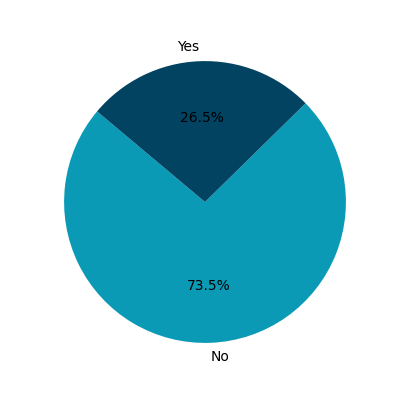
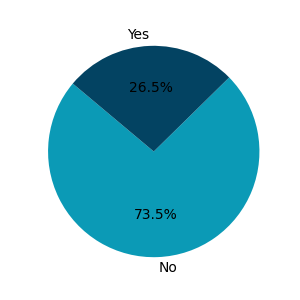
Updates.

diff --git a/templates/sociodem.html b/templates/sociodem.html
@@ -5,7 +5,7 @@
         <h1>Sociodemographics</h1>
 
         <h2>Age Group</h2>
-        <p>Is customer above the age of 65</p>
+        <p>Is the customer above the age of 65</p>
 
         <div class="container">
             <div>
@@ -21,19 +21,20 @@
                          alt="Bar of Age Group" class="graph">
                 </div>
             </div>
-            <div><p>Average monthly charges by churn and age group</p>
-                <div>
-                    {% for key, value in by_age_group.items() %}
+        </div>
+        <div>
+            <p>Average monthly charges by churn and age group</p>
+            <div>
+                {% for key, value in by_age_group.items() %}
 
-                        <p>{{ key }} : {{ value }}</p>
+                    <p>{{ key }} : {{ value }}</p>
 
-                    {% endfor %}
-                </div>
+                {% endfor %}
             </div>
         </div>
-
+        <br>
         <h2>Partnership</h2>
-        <p>Does customer has or hasn't partner</p>
+        <p>Whether the client has or does not have a partner</p>
 
         <div class="container">
             <div>
@@ -50,9 +51,19 @@
                 </div>
             </div>
         </div>
+        <div>
+            <p>Average monthly charges by churn and partnership</p>
+            <div>
+                {% for key, value in by_partner.items() %}
 
+                    <p>{{ key }} : {{ value }}</p>
+
+                {% endfor %}
+            </div>
+        </div>
+        <br>
         <h2>Dependents</h2>
-        <p>Does customer has or hasn't dependents</p>
+        <p>Whether the client has or does not have dependents</p>
 
         <div class="container">
             <div>
@@ -67,6 +78,17 @@
                     <img src="{{ url_for('static', filename='graphs/dependents_bar.png') }}"
                          alt="Bar of Dependents" class="graph">
                 </div>
+            </div>
+
+        </div>
+        <div>
+            <p>Average monthly charges by churn and dependents</p>
+            <div>
+                {% for key, value in by_dependents.items() %}
+
+                    <p>{{ key }} : {{ value }}</p>
+
+                {% endfor %}
             </div>
         </div>
 

diff --git a/templates/services.html b/templates/services.html
@@ -5,7 +5,7 @@
         <h1>Services</h1>
 
         <h2>Phone Service</h2>
-        <p>Does customer has phone service</p>
+        <p>Does the customer have phone service</p>
 
         <div class="container">
             <div>
@@ -21,10 +21,22 @@
                          alt="Bar of Phone" class="graph">
                 </div>
             </div>
+
         </div>
 
-            <h2>Internet Service</h2>
-        <p>Does customer has internet service</p>
+        <div>
+            <p>Average monthly charges by churn and phone service</p>
+            <div>
+                {% for key, value in by_phone.items() %}
+
+                    <p>{{ key }} : {{ value }}</p>
+
+                {% endfor %}
+            </div>
+        </div>
+        <br>
+        <h2>Internet Service</h2>
+        <p>Does the customer have internet service</p>
 
         <div class="container">
             <div>
@@ -40,10 +52,22 @@
                          alt="Bar of Internet" class="graph">
                 </div>
             </div>
+
         </div>
 
-                <h2>Streaming TV Service</h2>
-        <p>Does customer has streaming TV service</p>
+        <div>
+            <p>Average monthly charges by churn and internet service</p>
+            <div>
+                {% for key, value in by_internet.items() %}
+
+                    <p>{{ key }} : {{ value }}</p>
+
+                {% endfor %}
+            </div>
+        </div>
+        <br>
+        <h2>Streaming TV Service</h2>
+        <p>Does the customer have streaming TV service</p>
 
         <div class="container">
             <div>
@@ -58,6 +82,17 @@
                     <img src="{{ url_for('static', filename='graphs/streaming_tv_bar.png') }}"
                          alt="Bar of Streaming TV" class="graph">
                 </div>
+            </div>
+        </div>
+
+        <div>
+            <p>Average monthly charges by churn and streaming TV service</p>
+            <div>
+                {% for key, value in by_streaming_tv.items() %}
+
+                    <p>{{ key }} : {{ value }}</p>
+
+                {% endfor %}
             </div>
         </div>
 

diff --git a/static/style.css b/static/style.css
@@ -48,7 +48,7 @@ h1 {
 
 .container {
     display: grid;
-    grid-template-columns: 210px auto;
+    grid-template-columns: 250px auto;
     grid-column-gap: 40px;
     padding: 10px;
 }

diff --git a/functions.py b/functions.py
@@ -138,6 +138,19 @@ def age_group():
     return data['Senior_Citizen'].value_counts()
 
 
+def churn_by_age_group_monthly_mean():
+    mean = data.groupby(['Churn', 'Senior_Citizen'])['Monthly_Charges'].mean()
+
+    by_mean = {
+        'Active & Age < 65': round(list(mean)[0], 2),
+        'Active & Age > 65': round(list(mean)[1], 2),
+        'Terminated & Age < 65': round(list(mean)[2], 2),
+        'Terminated & Age > 65': round(list(mean)[3], 2)
+    }
+
+    return by_mean
+
+
 def partner_statistics():
     partner_no = data['Partner'].value_counts()['No']
     partner_yes = data['Partner'].value_counts()['Yes']
@@ -158,6 +171,19 @@ def partner_statistics():
 
 def partner():
     return data['Partner'].value_counts()
+
+
+def churn_by_partner_monthly_mean():
+    mean = data.groupby(['Churn', 'Partner'])['Monthly_Charges'].mean()
+
+    by_mean = {
+        'Active & Has no partner': round(list(mean)[0], 2),
+        'Active & Has partner': round(list(mean)[1], 2),
+        'Terminated & Has no partner': round(list(mean)[2], 2),
+        'Terminated & Has partner': round(list(mean)[3], 2)
+    }
+
+    return by_mean
 
 
 def dependents_statistics():
@@ -182,14 +208,14 @@ def dependents():
     return data['Dependents'].value_counts()
 
 
-def churn_by_age_group_monthly_mean():
-    mean = data.groupby(['Churn', 'Senior_Citizen'])['Monthly_Charges'].mean()
+def churn_by_dependents_monthly_mean():
+    mean = data.groupby(['Churn', 'Dependents'])['Monthly_Charges'].mean()
 
     by_mean = {
-        'Active & Age < 65': round(list(mean)[0], 2),
-        'Active & Age > 65': round(list(mean)[1], 2),
-        'Terminated & Age < 65': round(list(mean)[2], 2),
-        'Terminated & Age > 65': round(list(mean)[3], 2)
+        'Active & Has no dependents': round(list(mean)[0], 2),
+        'Active & Has dependents': round(list(mean)[1], 2),
+        'Terminated & Has no dependents': round(list(mean)[2], 2),
+        'Terminated & Has dependents': round(list(mean)[3], 2)
     }
 
     return by_mean
@@ -215,6 +241,19 @@ def phone_statistics():
 
 def phone():
     return data['Phone_Service'].value_counts()
+
+
+def churn_by_phone_monthly_mean():
+    mean = data.groupby(['Churn', 'Phone_Service'])['Monthly_Charges'].mean()
+
+    by_mean = {
+        'Active & Has phone service': round(list(mean)[0], 2),
+        'Active & Has no phone service': round(list(mean)[1], 2),
+        'Terminated & Has phone service': round(list(mean)[2], 2),
+        'Terminated & Has no phone service': round(list(mean)[3], 2)
+    }
+
+    return by_mean
 
 
 def internet_statistics():
@@ -243,6 +282,21 @@ def internet():
     return data['Internet_Service'].value_counts()
 
 
+def churn_by_internet_monthly_mean():
+    mean = data.groupby(['Churn', 'Internet_Service'])['Monthly_Charges'].mean()
+
+    by_mean = {
+        'Active & Has dsl service': round(list(mean)[0], 2),
+        'Active & Has fiber optic service': round(list(mean)[1], 2),
+        'Active & No internet service': round(list(mean)[2], 2),
+        'Terminated & Has dsl service': round(list(mean)[3], 2),
+        'Terminated & Has fiber optic service': round(list(mean)[4], 2),
+        'Terminated & No internet service': round(list(mean)[5], 2)
+    }
+
+    return by_mean
+
+
 def streaming_tv_statistics():
     tv_yes = data['Streaming_TV'].value_counts()['Yes']
     tv_no = data['Streaming_TV'].value_counts()['No']
@@ -267,3 +321,21 @@ def streaming_tv_statistics():
 
 def streaming_tv():
     return data['Streaming_TV'].value_counts()
+
+
+def churn_by_streaming_tv_monthly_mean():
+    mean = data.groupby(['Churn', 'Streaming_TV'])['Monthly_Charges'].mean()
+
+    by_mean = {
+        'Active & Has no TV service': round(list(mean)[0], 2),
+        'Active & Has no internet service': round(list(mean)[1], 2),
+        'Active & Has TV service': round(list(mean)[2], 2),
+        'Terminated & Has no TV service': round(list(mean)[3], 2),
+        'Terminated & Has no internet service': round(list(mean)[4], 2),
+        'Terminated & Has TV service': round(list(mean)[5], 2)
+    }
+
+    print(mean)
+
+    return by_mean
+churn_by_streaming_tv_monthly_mean()

diff --git a/app.py b/app.py
@@ -56,12 +56,16 @@ def sociodem_page():
     dependents_bar(dependents_data)
 
     by_age_group = churn_by_age_group_monthly_mean()
+    by_dependents = churn_by_dependents_monthly_mean()
+    by_partner = churn_by_partner_monthly_mean()
 
     return render_template('sociodem.html',
                            age_group_stat=age_group_stat,
                            partner_stat=partner_stat,
                            dependents_stat=dependents_stat,
-                           by_age_group=by_age_group)
+                           by_age_group=by_age_group,
+                           by_dependents=by_dependents,
+                           by_partner=by_partner)
 
 
 @app.route('/services', methods=['GET'])
@@ -78,10 +82,17 @@ def services_page():
     streaming_tv_data = streaming_tv()
     streaming_tv_bar(streaming_tv_data)
 
+    by_phone = churn_by_phone_monthly_mean()
+    by_internet = churn_by_internet_monthly_mean()
+    by_streaming_tv = churn_by_streaming_tv_monthly_mean()
+
     return render_template('services.html',
                            phone_stat=phone_stat,
                            internet_stat=internet_stat,
-                           streaming_tv_stat=streaming_tv_stat)
+                           streaming_tv_stat=streaming_tv_stat,
+                           by_phone=by_phone,
+                           by_internet=by_internet,
+                           by_streaming_tv=by_streaming_tv)
 
 
 if __name__ == '__main__':

diff --git a/graphs_generation.py b/graphs_generation.py
@@ -50,7 +50,7 @@ def churn_pie(churn_data):
     labels = churn_data.index
     sizes = churn_data.values
     colors = ['#0B9AB6', '#034362']
-    plt.figure(figsize=(4, 4))
+    plt.figure(figsize=(3, 3))
     plt.pie(sizes, labels=labels, colors=colors, autopct='%1.1f%%', startangle=140)
     plt.axis('equal')
 
